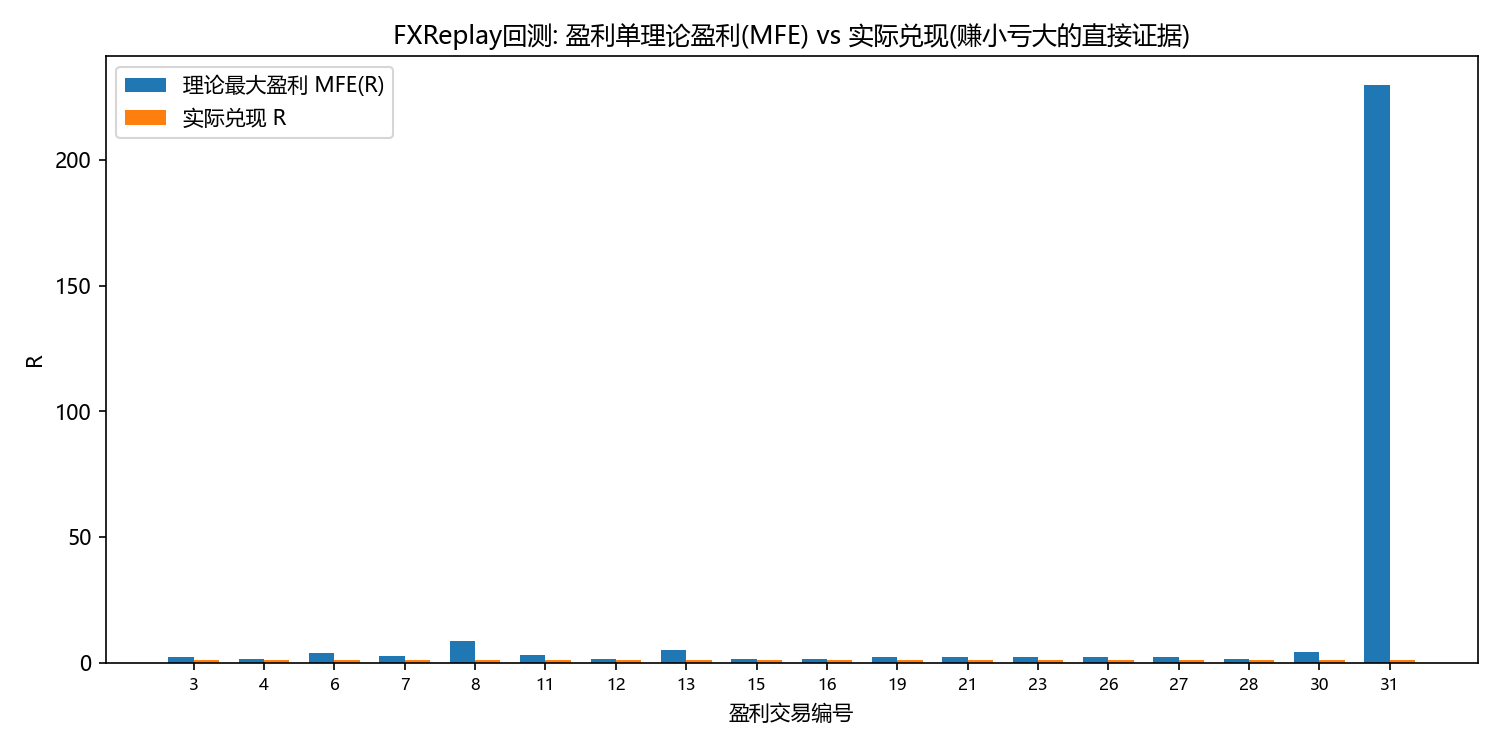
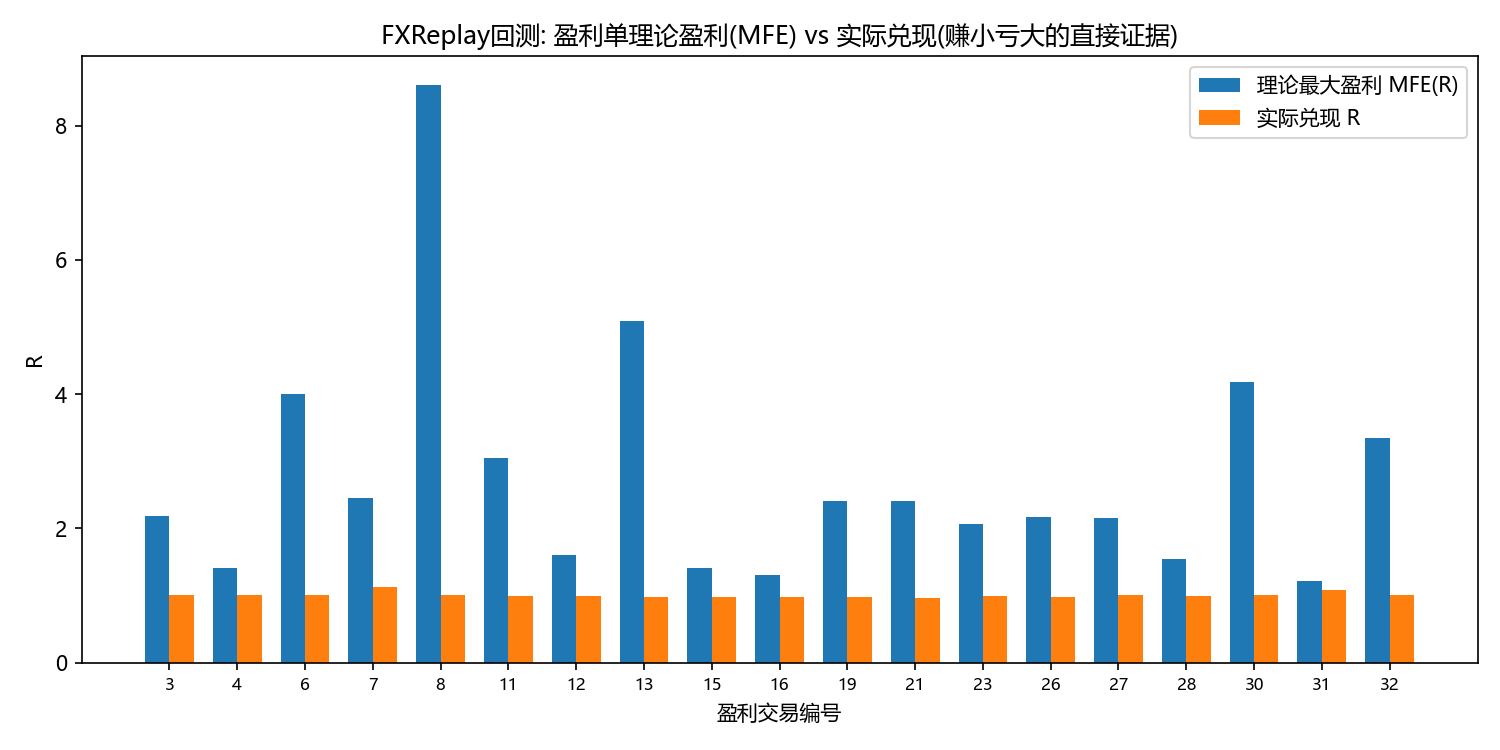
update FXReplay stats to 33 trades

diff --git a/fxreplay_analysis.py b/fxreplay_analysis.py
@@ -12,7 +12,8 @@ OUT = r"C:\Users\LuoOVO\Documents\Default Project\trade_project"
 os.makedirs(OUT, exist_ok=True)
 
 df = pd.read_excel(DATA, sheet_name="Trade Log")
-df = df[df["Win/Loss"].notna()]
+# 只统计已平仓且有明确结果的交易(Win/Loss),排除空行与公式错误行(#DIV/0!等)
+df = df[df["Win/Loss"].isin(["Win", "Loss"])]
 df["Final Result(R)"] = pd.to_numeric(df["Final Result(R)"], errors="coerce")
 df["MFE(R)"] = pd.to_numeric(df["MFE(R)"], errors="coerce")
 

diff --git a/README.md b/README.md
@@ -122,21 +122,21 @@ trade-performance-analysis/
 
 ## FXReplay 系统化回测复盘(fxreplay_analysis.py)
 
-基于 FXReplay 回放工具对价格行为体系进行系统化验证,31 笔完整记录
+基于 FXReplay 回放工具对价格行为体系进行系统化验证,33 笔完整记录
 (每笔含市场背景、形态、信号质量、入场/止损/出场、MFE/MAE、Review)。
 
 | 指标 | 数值 |
 |------|------|
-| 样本 | 31 笔(持续扩充中) |
-| 胜率 | 58.1%(18胜 / 13负) |
+| 样本 | 33 笔(持续扩充中) |
+| 胜率 | 57.6%(19胜 / 14负) |
 | 总盈亏 | +5.06R(正期望) |
-| 平均MFE(R) | 9.14 vs 实际兑现 0.163(兑现率仅1.8%) |
+| 平均MFE(R) | 1.77 vs 实际兑现 0.153(兑现率8.7%) |
 
 **关键发现**:
-1. **形态归因**:双顶(Double Top)+5.96R、楔形(Wedge)+2.13R 为有效形态;L2(-3.02R)、双底(-2.05R)为亏损来源
-2. **市场背景**:趋势(17笔,61%胜率)+3.88R、突破模式+2.05R 为正;震荡市 -0.87R 为负
-3. **方向归因**:做空 +9.14R vs 做多 -4.08R —— 与实盘 821 仓位结论一致(空优于多)
-4. **MFE 兑现率仅 1.8%**:平均理论盈利 9.14R 只兑现 0.16R,与实盘"盈利单拿不住"问题互相印证,
+1. **形态归因**:双顶(Double Top)+5.96R、楔形(Wedge)+3.13R 为有效形态;L2(-3.02R)、双底(-3.05R)为亏损来源
+2. **市场背景**:趋势(18笔)+3.88R、突破模式(5笔)+3.06R 为正;震荡市(10笔)-1.87R 为负
+3. **方向归因**:做空 +9.14R vs 做多 -4.07R —— 与实盘 821 仓位结论一致(空优于多)
+4. **MFE 兑现率仅 8.7%**:平均理论盈利 1.77R 只兑现 0.15R,与实盘"盈利单拿不住"问题互相印证,
    两份独立数据集指向同一核心缺陷
 
 ![形态归因](fxreplay_pattern_pnl.png)
